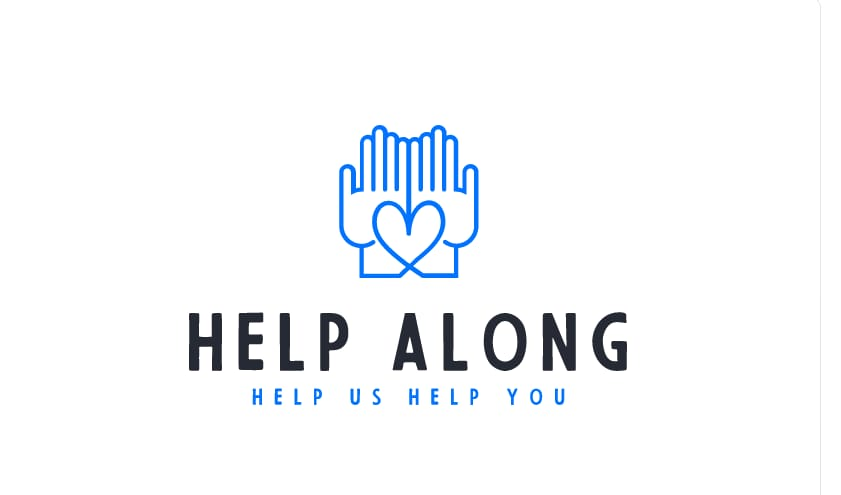
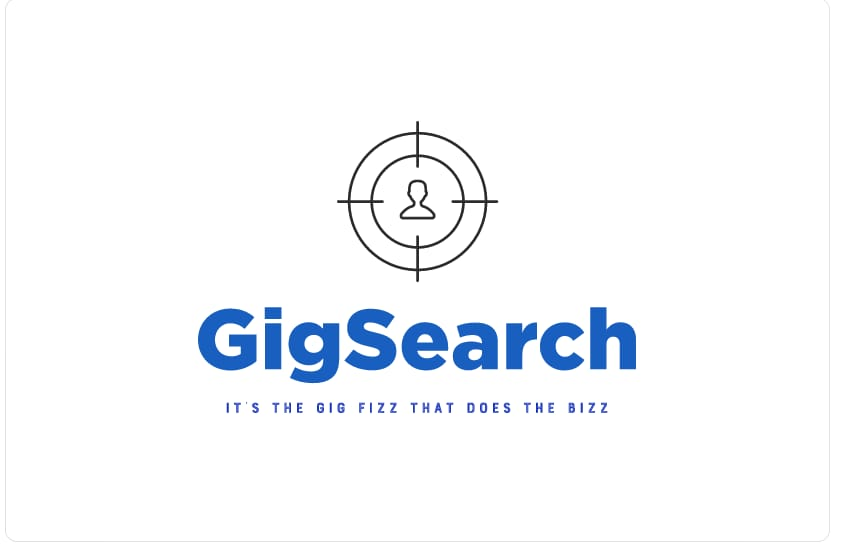
made the changes

Changed region(s): [[0.2164, 0.2424, 0.7729, 0.7576], [0.2782, 0.7879, 0.6801, 0.8182]]

diff --git a/index.html b/index.html
@@ -1,6 +1,7 @@
 <!DOCTYPE html>
 <html lang="en">
-<title>Help Along</title>
+<title>Gig Search</title>
+<link rel="shortcut icon" type="image/jpeg" href="help-bg.jpeg"/>
 <meta charset="UTF-8">
 <meta name="viewport" content="width=device-width, initial-scale=1">
 <link rel="stylesheet" href="https://www.w3schools.com/w3css/4/w3.css">
@@ -117,7 +118,7 @@ body {font-family: "Lato", sans-serif}
     <a class="w3-bar-item w3-button w3-padding-large w3-hide-medium w3-hide-large w3-right" href="javascript:void(0)" onclick="myFunction()" title="Toggle Navigation Menu"><i class="fa fa-bars"></i></a>
     <a href="#" class="w3-bar-item w3-button w3-padding-large">HOME</a>
     <a href="#band" class="w3-bar-item w3-button w3-padding-large w3-hide-small">ABOUT</a>
-    <a href="#tour" class="w3-bar-item w3-button w3-padding-large w3-hide-small">SERVICES</a>
+    <a href="#tour" class="w3-bar-item w3-button w3-padding-large w3-hide-small">JOBS</a>
     <a href="#contact" class="w3-bar-item w3-button w3-padding-large w3-hide-small">APPLY</a>
    
     
@@ -147,11 +148,11 @@ body {font-family: "Lato", sans-serif}
 
   <!-- The Band Section -->
   <div class="w3-container w3-content w3-center w3-padding-64" style="max-width:800px" id="band">
-    <h2 class="w3-wide">Help Along</h2>
-    <p class="w3-opacity"><i>Connect families in-need with personal support workers on-demand</i></p>
+    <h2 class="w3-wide">Gig Search</h2>
+    <p class="w3-opacity"><i>Gig is everything you need</i></p>
     <p class="w3-justify">
-      Adapting to life with a disability is never easy, but there are ways to help yourself cope with limitations, overcome challenges, and build a rewarding life.
-      We are a trusted platform that simplifies access to care for people with disabilities.</p>
+      In a gig economy, businesses save resources in terms of benefits, office space and training. A gig economy can improve work-life balance over what is possible in most jobs.
+      We are a trusted platform that provide short-term jobs for the Gig workers.</p>
     
     
   </div>
@@ -159,8 +160,8 @@ body {font-family: "Lato", sans-serif}
   <!-- The Tour Section -->
   <div class="w3-black" id="tour">
     <div class="w3-container w3-content w3-padding-64" style="max-width:800px">
-      <h2 class="w3-wide w3-center">Services Offered</h2>
-      <p class="w3-opacity w3-center"><i>Check out the services offered by us!</i></p><br>
+      <h2 class="w3-wide w3-center">Jobs Available</h2>
+      <p class="w3-opacity w3-center"><i>Check out the jobs offered by us!</i></p><br>
 
       
 
@@ -232,7 +233,7 @@ body {font-family: "Lato", sans-serif}
             
               <div class="tab-content" id="myTabContent">
                   <div class="tab-pane fade show active" id="home" role="tabpanel" aria-labelledby="home-tab">
-                      <h3 class="register-heading">Apply for Services</h3>
+                      <h3 class="register-heading">Apply for Jobs</h3>
                       <div class="row register-form">
                           <div class="col-md-6">
                               <div class="form-group">
@@ -343,7 +344,7 @@ body {font-family: "Lato", sans-serif}
   <i class="fa fa-pinterest-p w3-hover-opacity"></i>
   <i class="fa fa-twitter w3-hover-opacity"></i>
   <i class="fa fa-linkedin w3-hover-opacity"></i>
-  <p class="w3-medium">Powered by Help Along</p>
+  <p class="w3-medium">Powered by Gig Search</p>
 </footer>
 
 <script>
